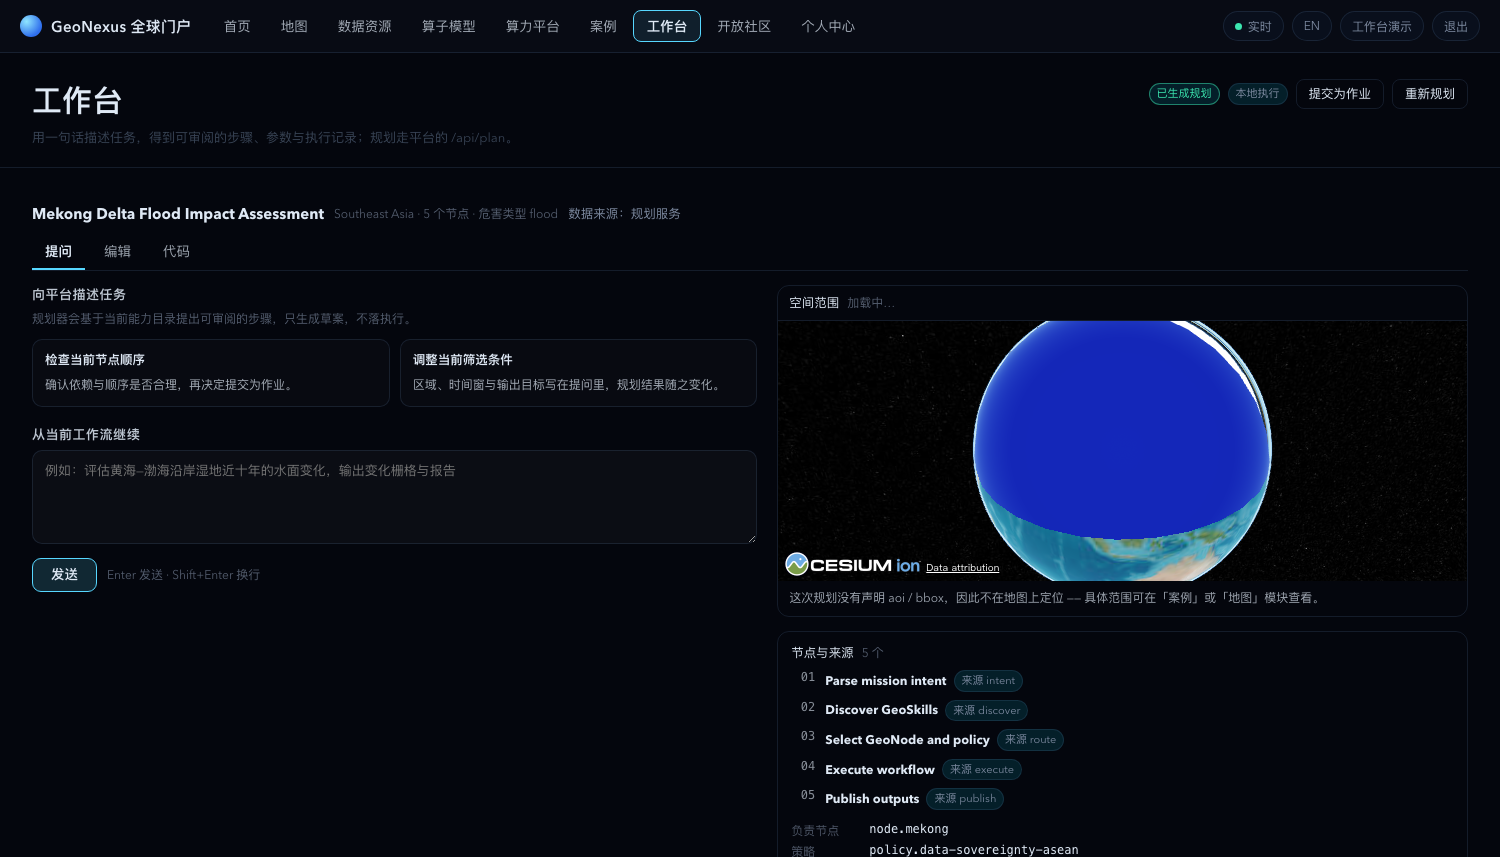
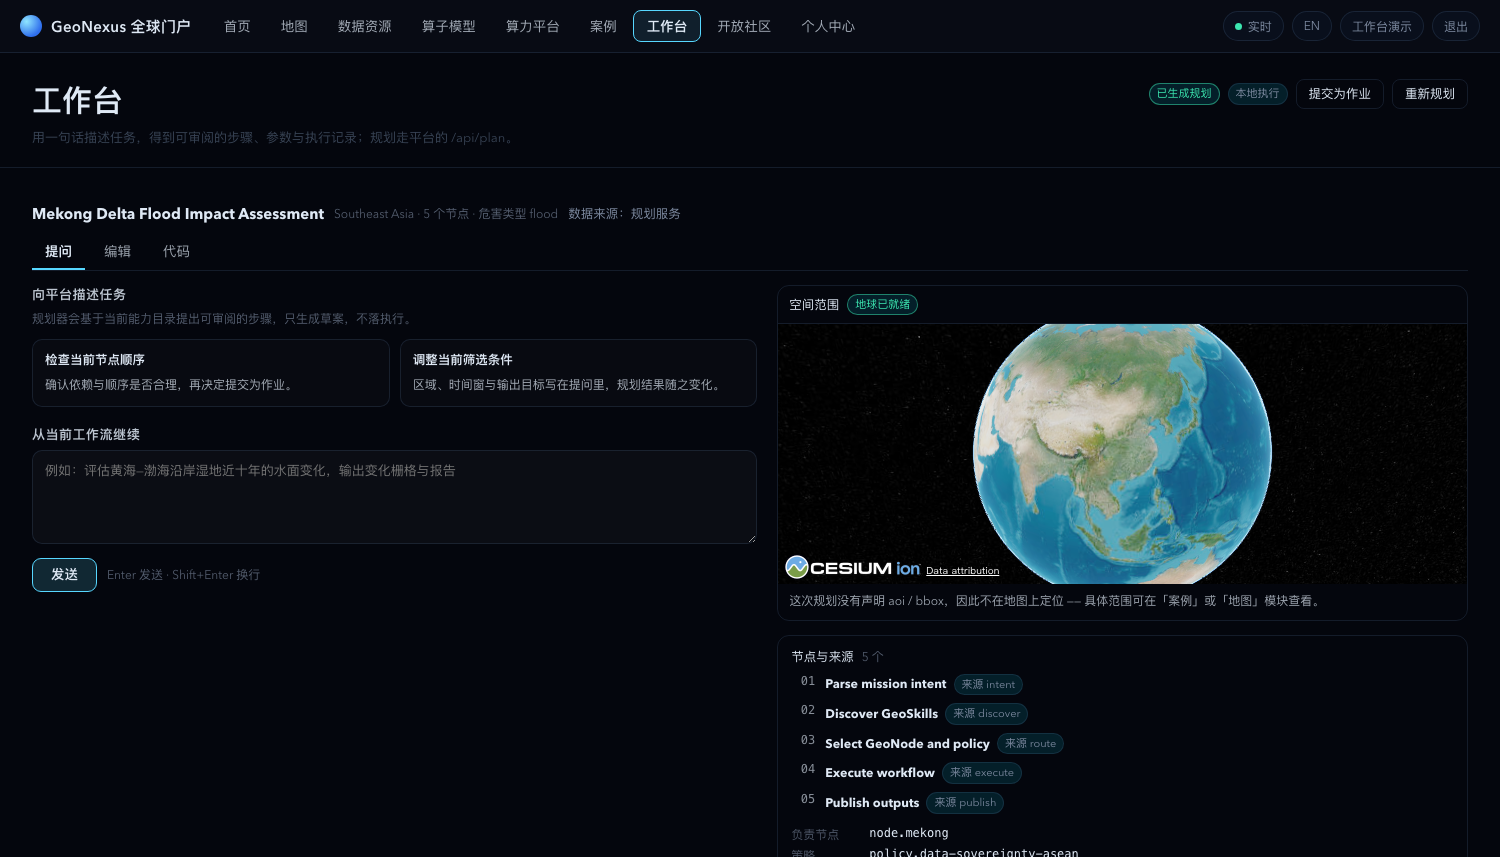
polish(home): the hero globe reports its state with the shared wording too
The home hero still had its own '地球加载中… / 地球未就绪' strings — the
fourth wording for one state. It now uses the same mapStatus computed as
map / cases / workbench, and the screenshot set in docs/design is
regenerated from this build.

Changed region(s): [[0.5213, 0.3641, 0.8893, 1.0], [0.5213, 0.3337, 0.6133, 0.3944], [0.5213, 0.9405, 0.552, 1.0]]

diff --git a/frontend/src/views/app/HomeView.vue b/frontend/src/views/app/HomeView.vue
@@ -9,7 +9,8 @@ import { caseApi } from '@/api'
 
 const ui = useUiStore(); const router = useRouter()
 const globeEl = ref(null)
-const { mount, ready, loading } = useMap()
+// 地球状态的说辞与地图/案例/工作台共用同一个 computed，避免同一状态四处在写四种话
+const { mount, ready, mapStatus } = useMap()
 const recommended = ref([])
 
 const abilities = [
@@ -40,7 +41,7 @@ onMounted(async () => {
         <p class="hg-hint">兴趣推荐 · 地表变化探索 · 体验演示向导</p>
       </div>
       <div ref="globeEl" class="hg-globe" aria-label="地球预览">
-        <span v-if="!ready" class="hg-globe-state">{{ loading ? '地球加载中…' : '地球未就绪' }}</span>
+        <span v-if="!ready" class="hg-globe-state">{{ mapStatus.text }}</span>
       </div>
     </div>
 
